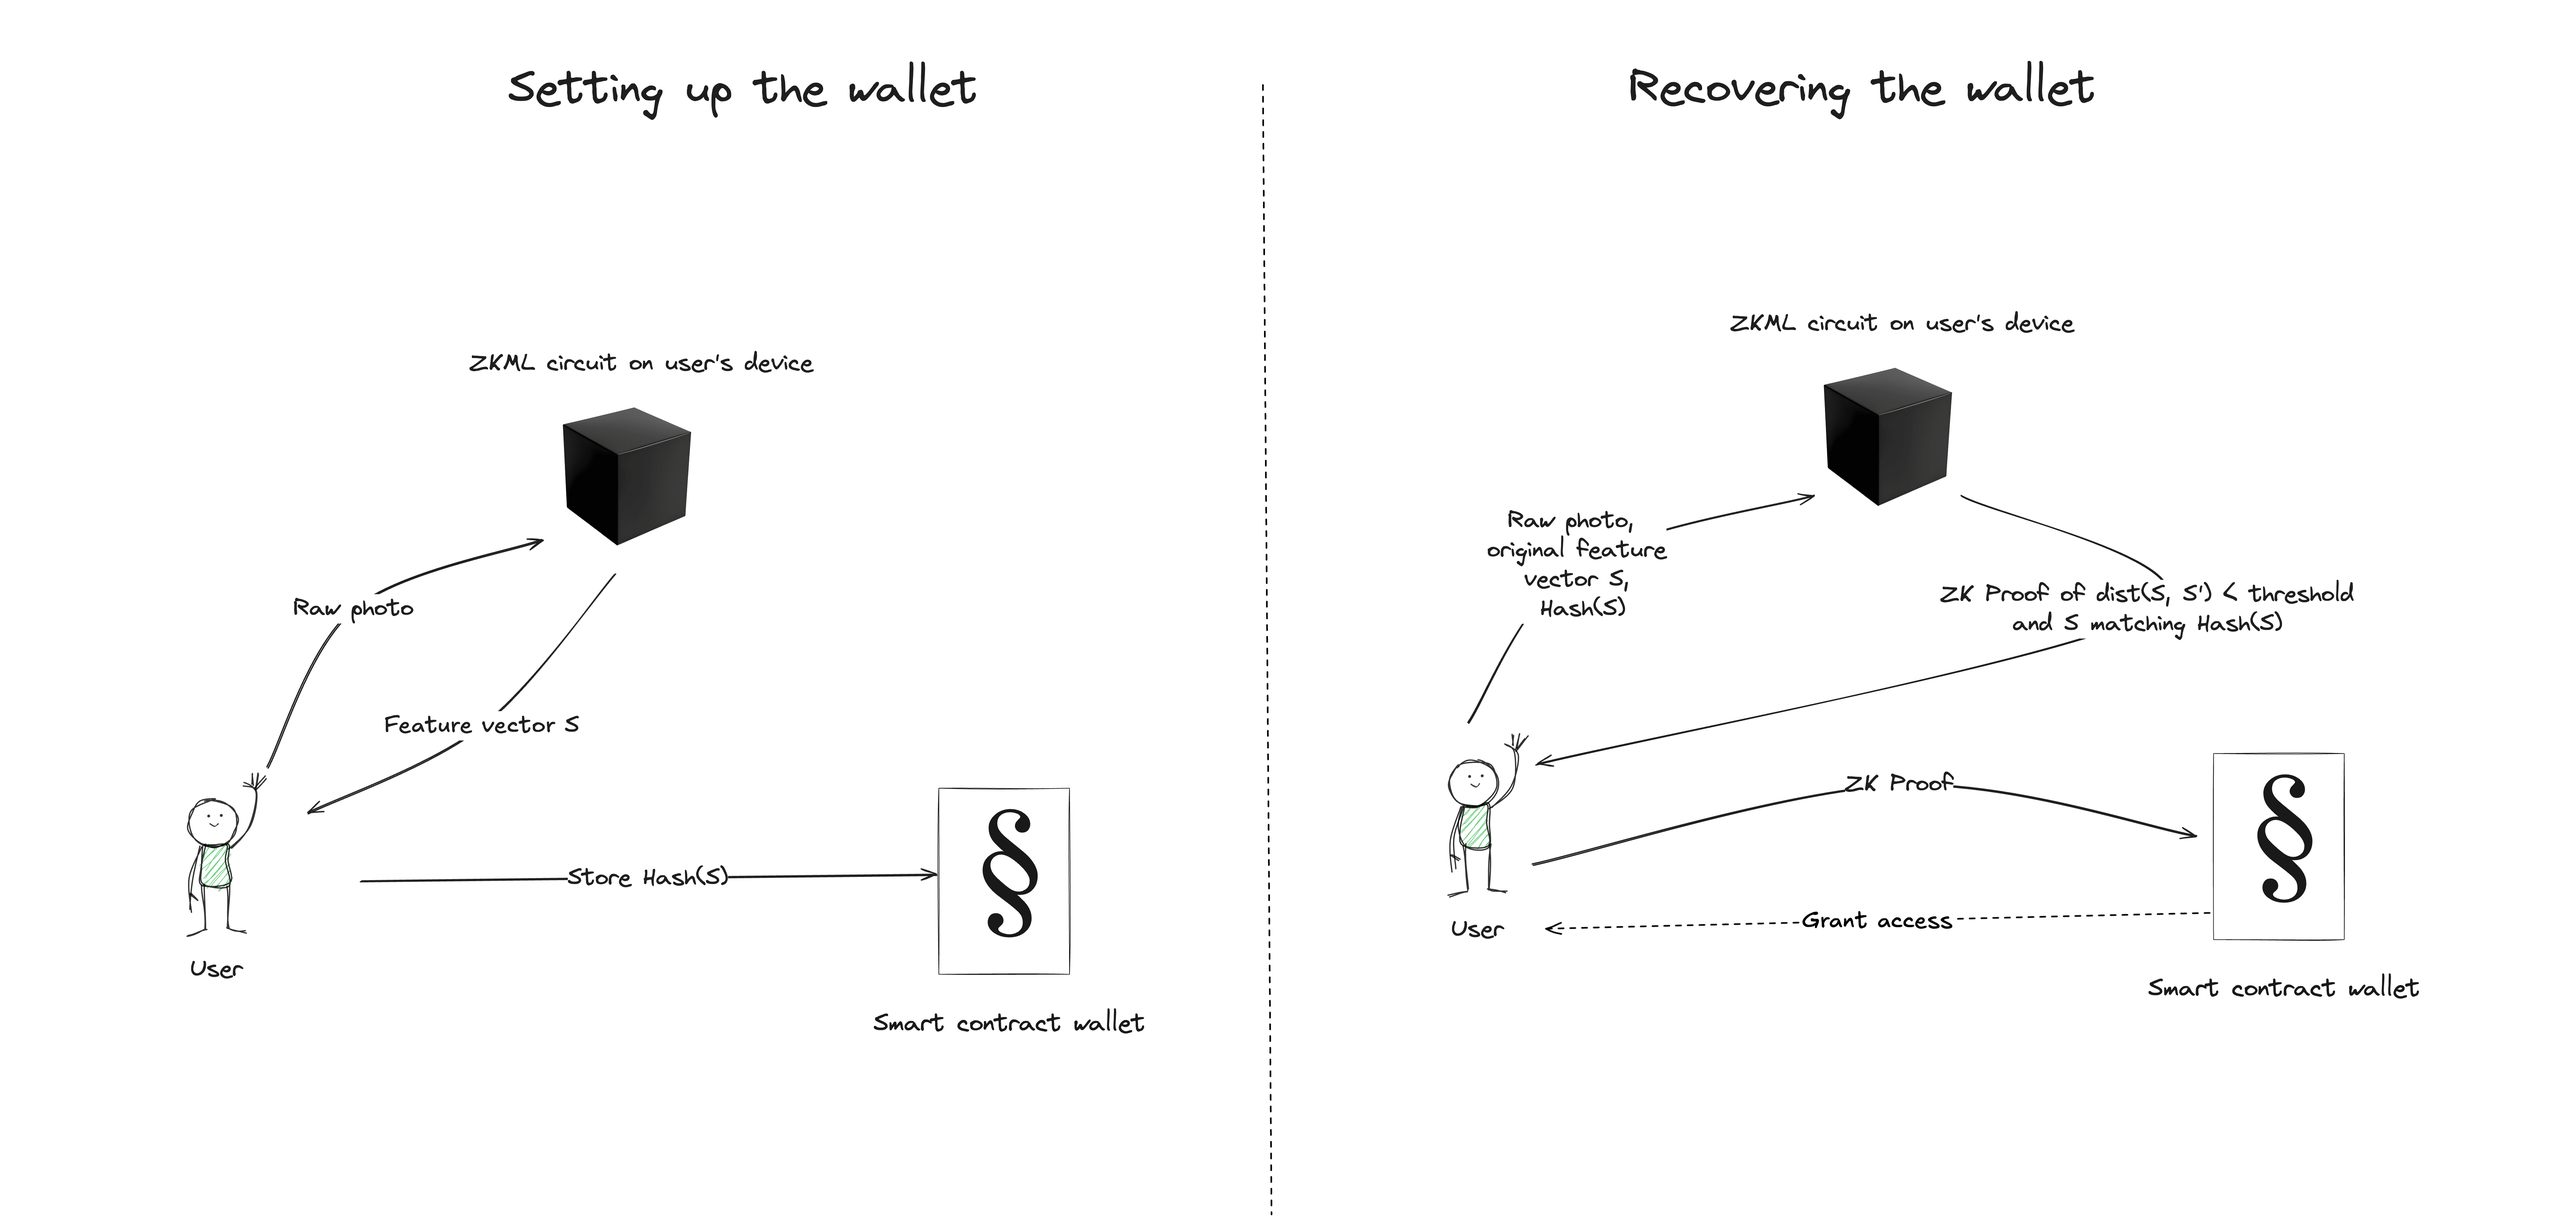
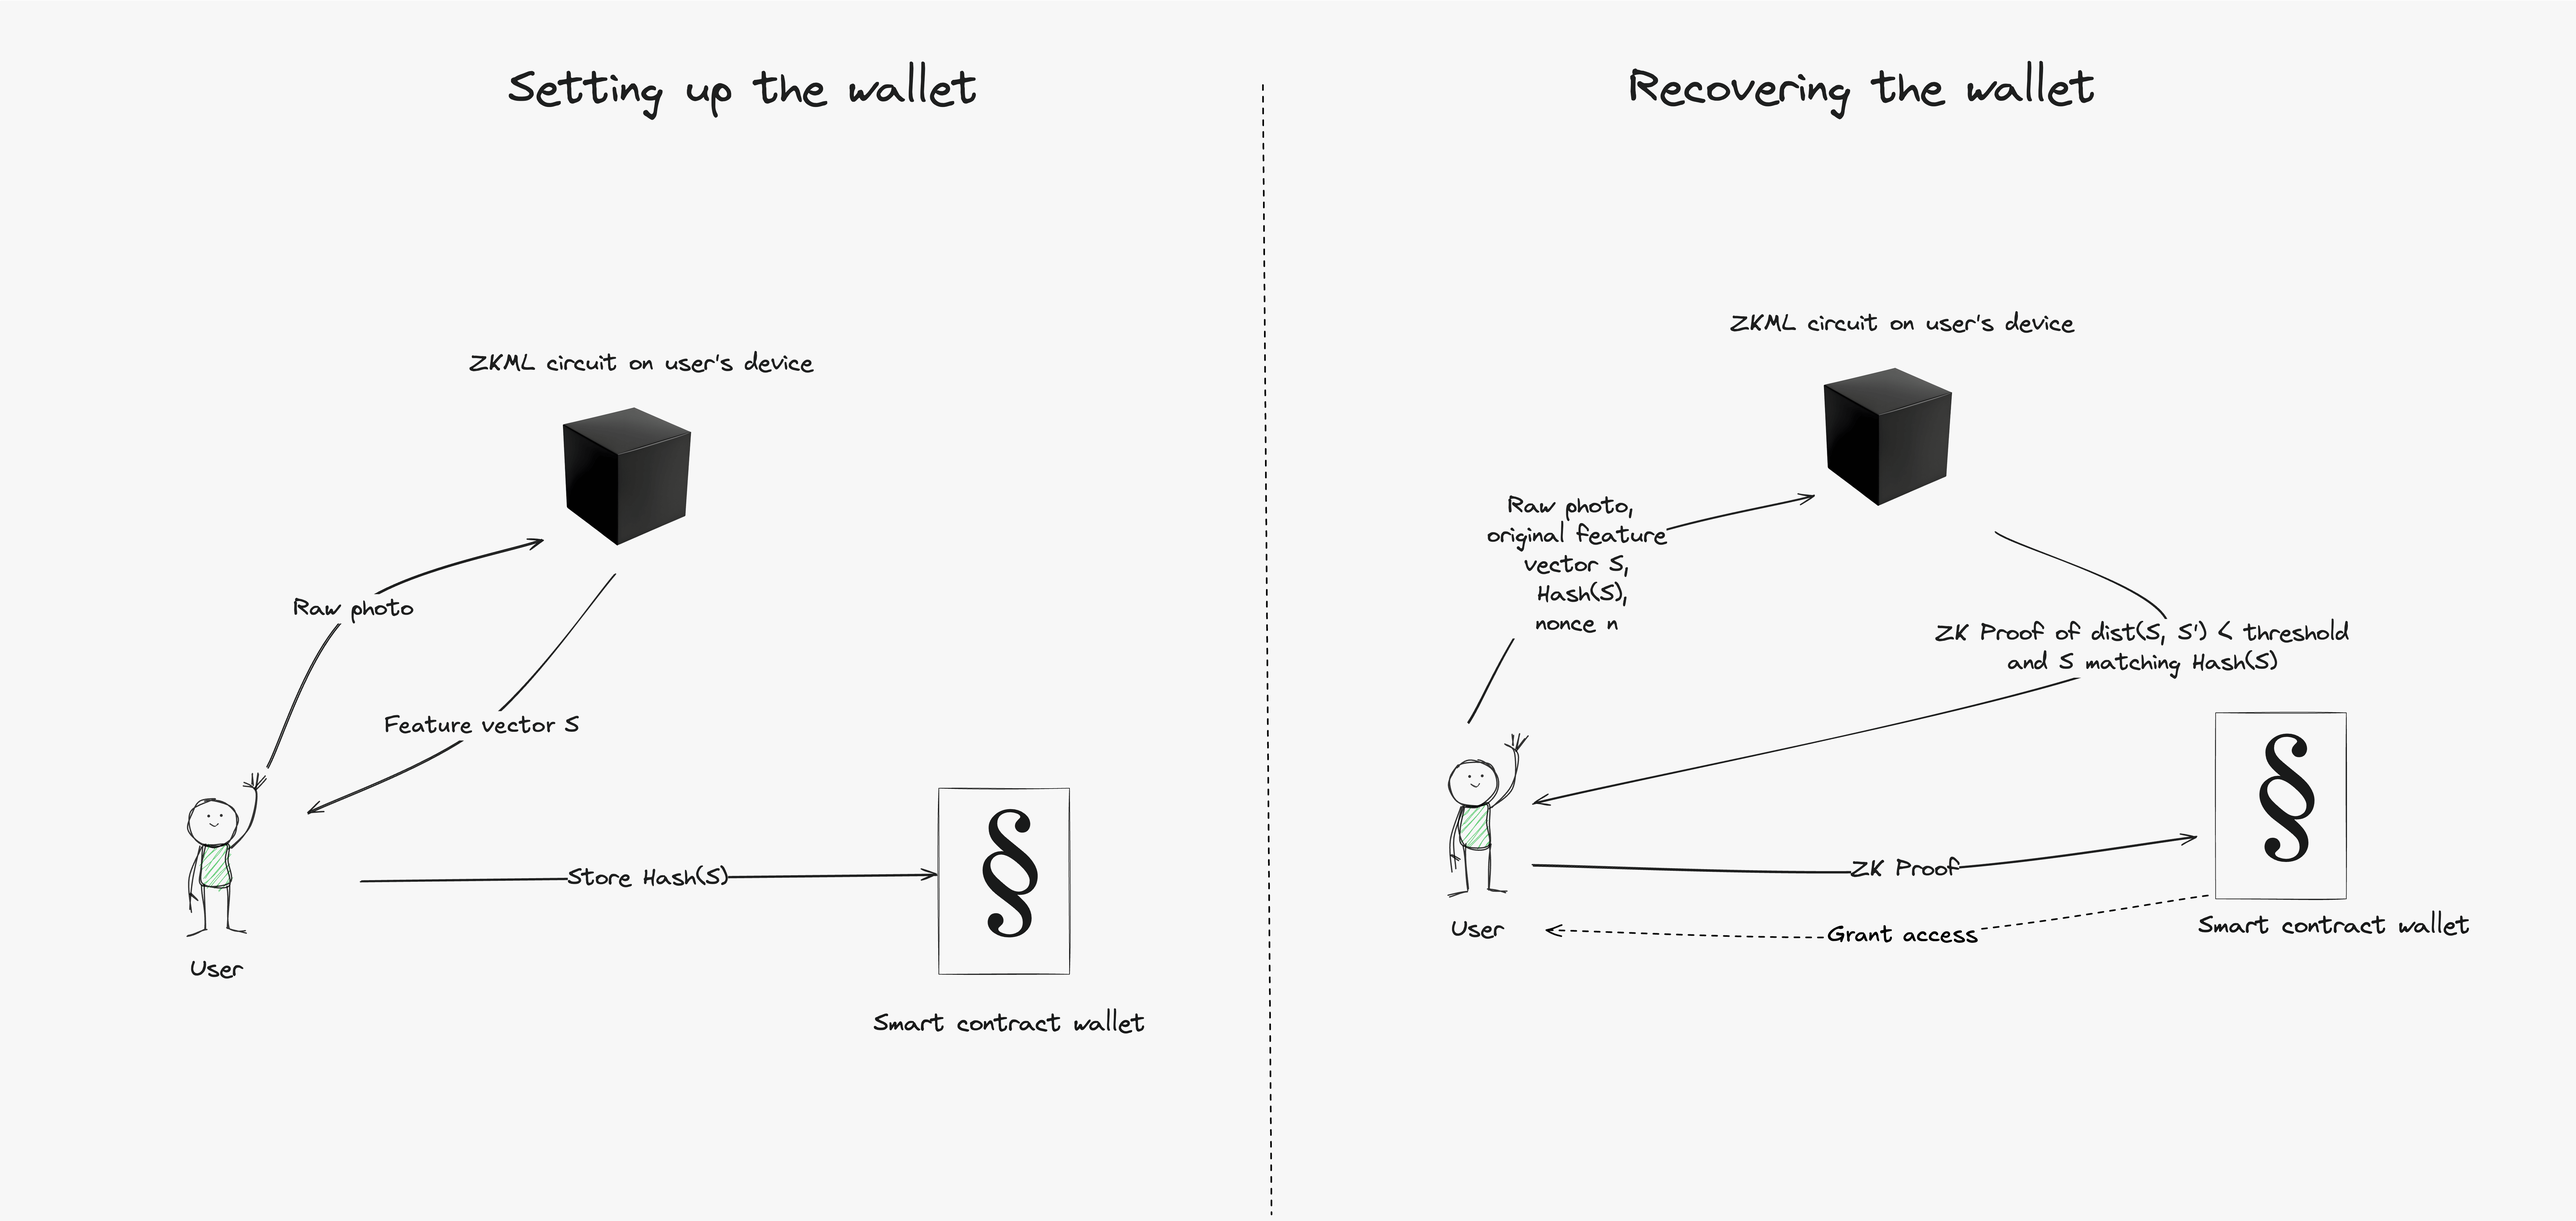
Seedless Recovery fixes

diff --git a/docusaurus.config.ts b/docusaurus.config.ts
@@ -2,6 +2,8 @@ import { Options } from '@docusaurus/preset-classic'
 import npm2yarn from '@docusaurus/remark-plugin-npm2yarn'
 import { Config } from '@docusaurus/types'
 import { themes } from 'prism-react-renderer'
+import remarkMath from 'remark-math'
+import rehypeKatex from 'rehype-katex'
 
 const config: Config = {
   title: 'Rarimo Docs',
@@ -36,7 +38,8 @@ const config: Config = {
           breadcrumbs: false,
           showLastUpdateTime: true,
           editUrl: 'https://github.com/rarimo/docs/blob/main',
-          remarkPlugins: [[npm2yarn, { sync: true }]],
+          remarkPlugins: [[npm2yarn, { sync: true }], remarkMath],
+          rehypePlugins: [rehypeKatex],
         },
         theme: { customCss: './src/css/custom.css' },
         gtag: { trackingID: 'G-PVC393K31J' },

diff --git a/CHANGELOG.md b/CHANGELOG.md
@@ -5,6 +5,8 @@ The format is based on [Keep a Changelog](https://keepachangelog.com/en/1.0.0/),
 and this project adheres to [Semantic Versioning](https://semver.org/spec/v2.0.0.html).
 
 ## [Unreleased]
+### Fixed
+- Fixed Seedless Recovery overview based on feedback;
 
 ## [5.18.2] - 2025-06-02
 ### Fixed
